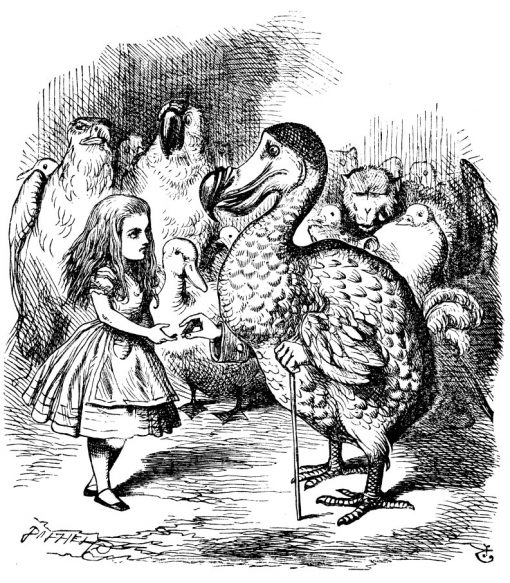
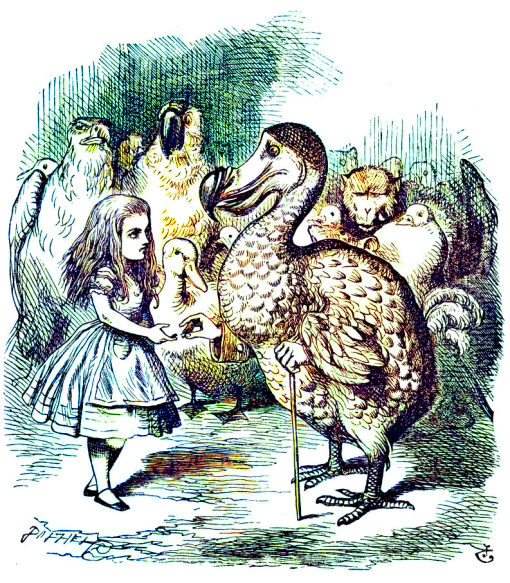
color is applied too

diff --git a/css/style.css b/css/style.css
@@ -11,7 +11,7 @@ img {
 	height: auto;
 }
 body {
-  color: #444;
+  color: #444444;
   font-size: 1.6rem;
   font-family: 'Gentium Book Plus', serif;
 }
@@ -19,7 +19,7 @@ p {
   margin-bottom: .67em;
 }
 nav, footer {
-  background-color: #444;
+  background-color:darkolivegreen
 }
 footer {
   text-align: center;
@@ -32,6 +32,7 @@ nav ul {
   padding: 1em;
   display: flex;
   justify-content: space-between;
+  margin: 0;
 }
 nav a:link, nav a:visited {
   color: #D0D0D0;
@@ -49,6 +50,7 @@ header {
   width: 510px;
   margin-top: 2em;
   margin-bottom: 2em;
+  margin: auto;
 }
 header img {
   width: 100%;
@@ -57,33 +59,48 @@ header img {
 header h1 {
   margin: 0 auto;
   padding: 0 auto;
+  text-align: center;
 }
 .small {
   margin-top: 1em;
+  font-weight: 900;
+  font-family: 'Lato', sans-serif;
+  font-size: 1.4rem;
+  text-transform: uppercase;
 }
 /*-- Article Styles--*/
 article {
   width: 768px;
   font-size: 18px;
   line-height: 1.3;
+  margin: auto;
 }
 article figure {
   width: 39%;
   margin: 0 0 1.25em 1.25em;
+  margin: auto;
+  float: right;
 }
 article figcaption {
-  font-size: inherit;
+  margin: auto;
+  font-size: 15px;
+  font-weight: 200;
+  font-family: Arial, Helvetica, sans-serif;
 }
 .pagination {
   margin-top: 2em;
   margin-bottom: 2em;
+  margin-left: auto;
+  margin-right: auto;
   width: 96%;
+  display: flex;
+  justify-content: space-between;
 }
 a.button {
   border: 2px solid #888;
   padding: .4em 1em .4em 1em;
   text-decoration: none;
-  color: #888;
+  color:darkolivegreen
   border-radius: 200px;
   font-family: 'Lato', sans-serif;
   font-weight: 300;
@@ -92,7 +109,8 @@ a.button {
 a.button:hover, a.button:active {
   border: 1px solid #444;
   text-decoration: none;
-  color: #222;
+  text-align: center;
+  color: darkolivegreen;
 }
 /*-- changes header and article width on small screens --*/
 @media screen and (max-width: 768px) {

diff --git a/index.html b/index.html
@@ -12,7 +12,7 @@
     <!-- modern normalize for cross-browser compatibility -->
     <link href="css/modern-normalize.css" rel="stylesheet">
     <!--add our stylesheet on this line -->
-    <link href="css/styles.css" rel="stylesheet">
+    <link href="css/style.css" rel="stylesheet">
   </head>
   <body>
     <main id="page">
@@ -62,7 +62,7 @@
         </div>
       </article>
       <footer>
-        <p>&copy; 2024 Your Name</p>
+        <p>&copy; 2025 Melika Tajipour</p>
       </footer>
     </main>
   </body>
